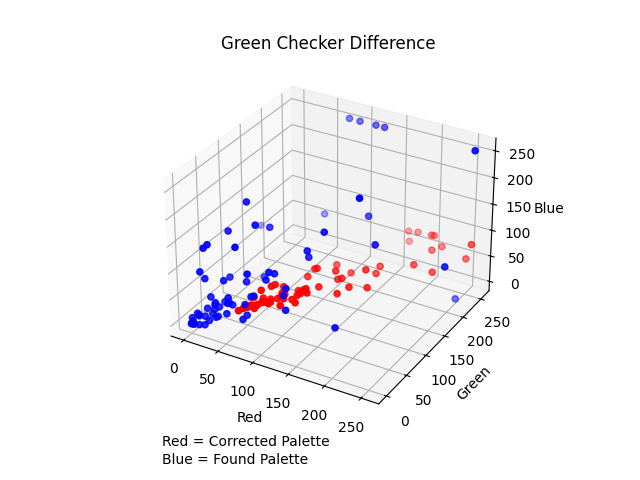
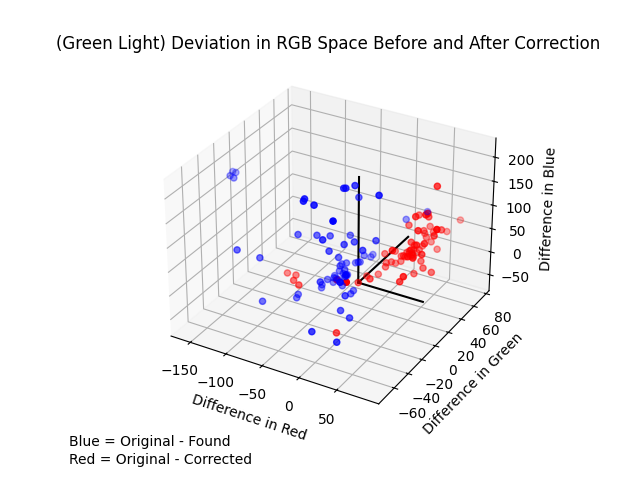
apaltest modifications

diff --git a/P3/Objective_testing/APalTest.py b/P3/Objective_testing/APalTest.py
@@ -27,28 +27,44 @@ def get_pal_diff(ref_pal, checker, corrected_palette):
     found_pal_diff = (org_pal - found_pal)
     cc_pal_diff = (org_pal - cc_pal)
     #get the sum of each color channel
-    found_pal_diff = np.mean(found_pal_diff, axis=0).astype(int)
-    cc_pal_diff = np.mean(cc_pal_diff, axis=0).astype(int)
-    print("Found pal avr diff", found_pal_diff)
-    print("cc pal avr diff", cc_pal_diff)
+    #print("Found pal diff", found_pal_diff)
+    found_pal_diff_mean = np.mean(found_pal_diff, axis=0).astype(int)
+    cc_pal_diff_mean = np.mean(cc_pal_diff, axis=0).astype(int)
+    print("Found pal avr diff", found_pal_diff_mean)
+    print("cc pal avr diff", cc_pal_diff_mean)
 
     #make a 3d plot of all points for found diff and cc diff
     fig = plt.figure()
     ax = fig.add_subplot(111, projection='3d')
-    ax.scatter(found_pal[:,0], found_pal[:,1], found_pal[:,2], c='r', marker='o')
-    ax.scatter(cc_pal[:,0], cc_pal[:,1], cc_pal[:,2], c='b', marker='o')
+    ax.scatter(found_pal_diff[:,0], found_pal_diff[:,1], found_pal_diff[:,2], c='b', marker='o')
+    ax.scatter(cc_pal_diff[:,0], cc_pal_diff[:,1], cc_pal_diff[:,2], c='r', marker='o')
     #write underneath the plot that the blue is the found and red is the corrected
-    ax.text2D(0.05, -0.05, "Red = Corrected Palette", transform=ax.transAxes)
-    ax.text2D(0.05, -0.1, "Blue = Found Palette", transform=ax.transAxes)
+    ax.text2D(-0.2, -0.05, "Blue = Original - Found", transform=ax.transAxes)
+    ax.text2D(-0.2, -0.1, "Red = Original - Corrected", transform=ax.transAxes)
+    #add the x,y,z axis line at 0,0,0
+    #get the higest positive value of either found or corrected for all 3 channels
+    max_diffx = max(max(found_pal_diff[:,0]), max(cc_pal_diff[:,0]))
+    max_diffy = max(max(found_pal_diff[:,1]), max(cc_pal_diff[:,1]))
+    max_diffz = max(max(found_pal_diff[:,2]), max(cc_pal_diff[:,2]))
+
+    ax.plot([0, max_diffx], [0, 0], [0, 0], c='black')
+    ax.plot([0, 0], [0, max_diffy], [0, 0], c='black')
+    ax.plot([0, 0], [0, 0], [0, max_diffz], c='black')
+
 
     #set plot title
-    ax.set_title('Yellow Checker Difference')
+    ax.set_title('(Yellow Light) Deviation in RGB Space Before and After Correction')
 
-    ax.set_xlabel('Red')
-    ax.set_ylabel('Green')
-    ax.set_zlabel('Blue')
+    ax.set_xlabel('Difference in Red')
+    ax.set_ylabel('Difference in Green')
+    ax.set_zlabel('Difference in Blue')
+
+    #save the plot at P3\Results\Data\colcaltest\results as a png with the name *color*_plot.png
+    #plt.savefig('P3\Results\Data\colcaltest/results/yellow_plot.png')
+
 
     plt.show()
+    
 
 if checkertest:
     #clear console

diff --git a/P3/main.py b/P3/main.py
@@ -164,6 +164,8 @@ def main(cam=None, image_path=None, detailed=False):
         #color correct corrected checker
         corrected_image_2, cc_matrix, corrected_checker_2_pepe = cc.colour_correct(corrected_image, original_checker, corrected_checker_2)
     
+    #apt.get_pal_diff(original_checker, input_colour_checker, corrected_checker)
+
     ## Plot Images
     print("------Plotting Images------")
     plot_list.append(corrected_image)
@@ -191,7 +193,11 @@ if __name__ == '__main__':
     cam = None
     image_path = None
 
+<<<<<<< Updated upstream
     test_method = 'testset'  # 'single', 'live', 'folder', 'testset'
+=======
+    test_method = 'single'  # 'single', 'live', 'folder'
+>>>>>>> Stashed changes
 
     if test_method == 'single':
         image_path = 'P3\Results\Data\Gips\Gypsum12g\Beside_Camera_light5_exp112596.0_20242011_145005.png'
